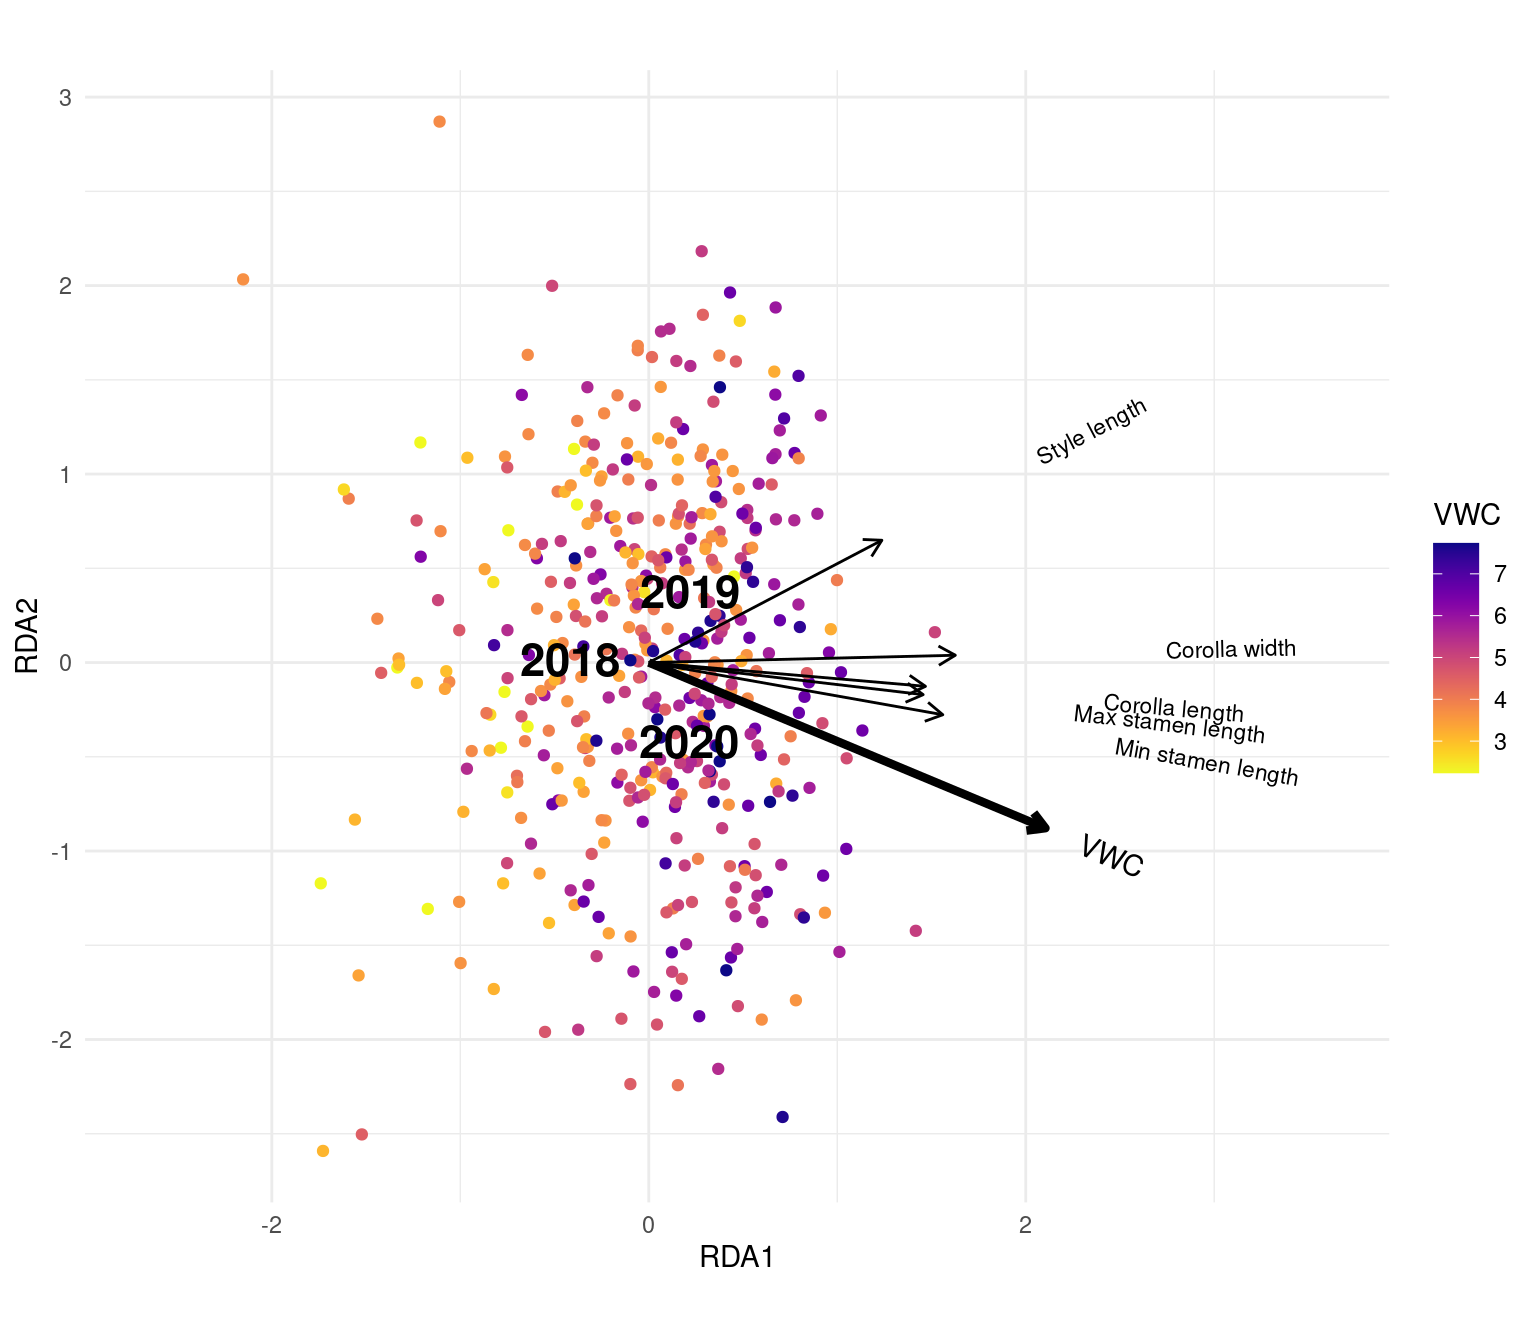
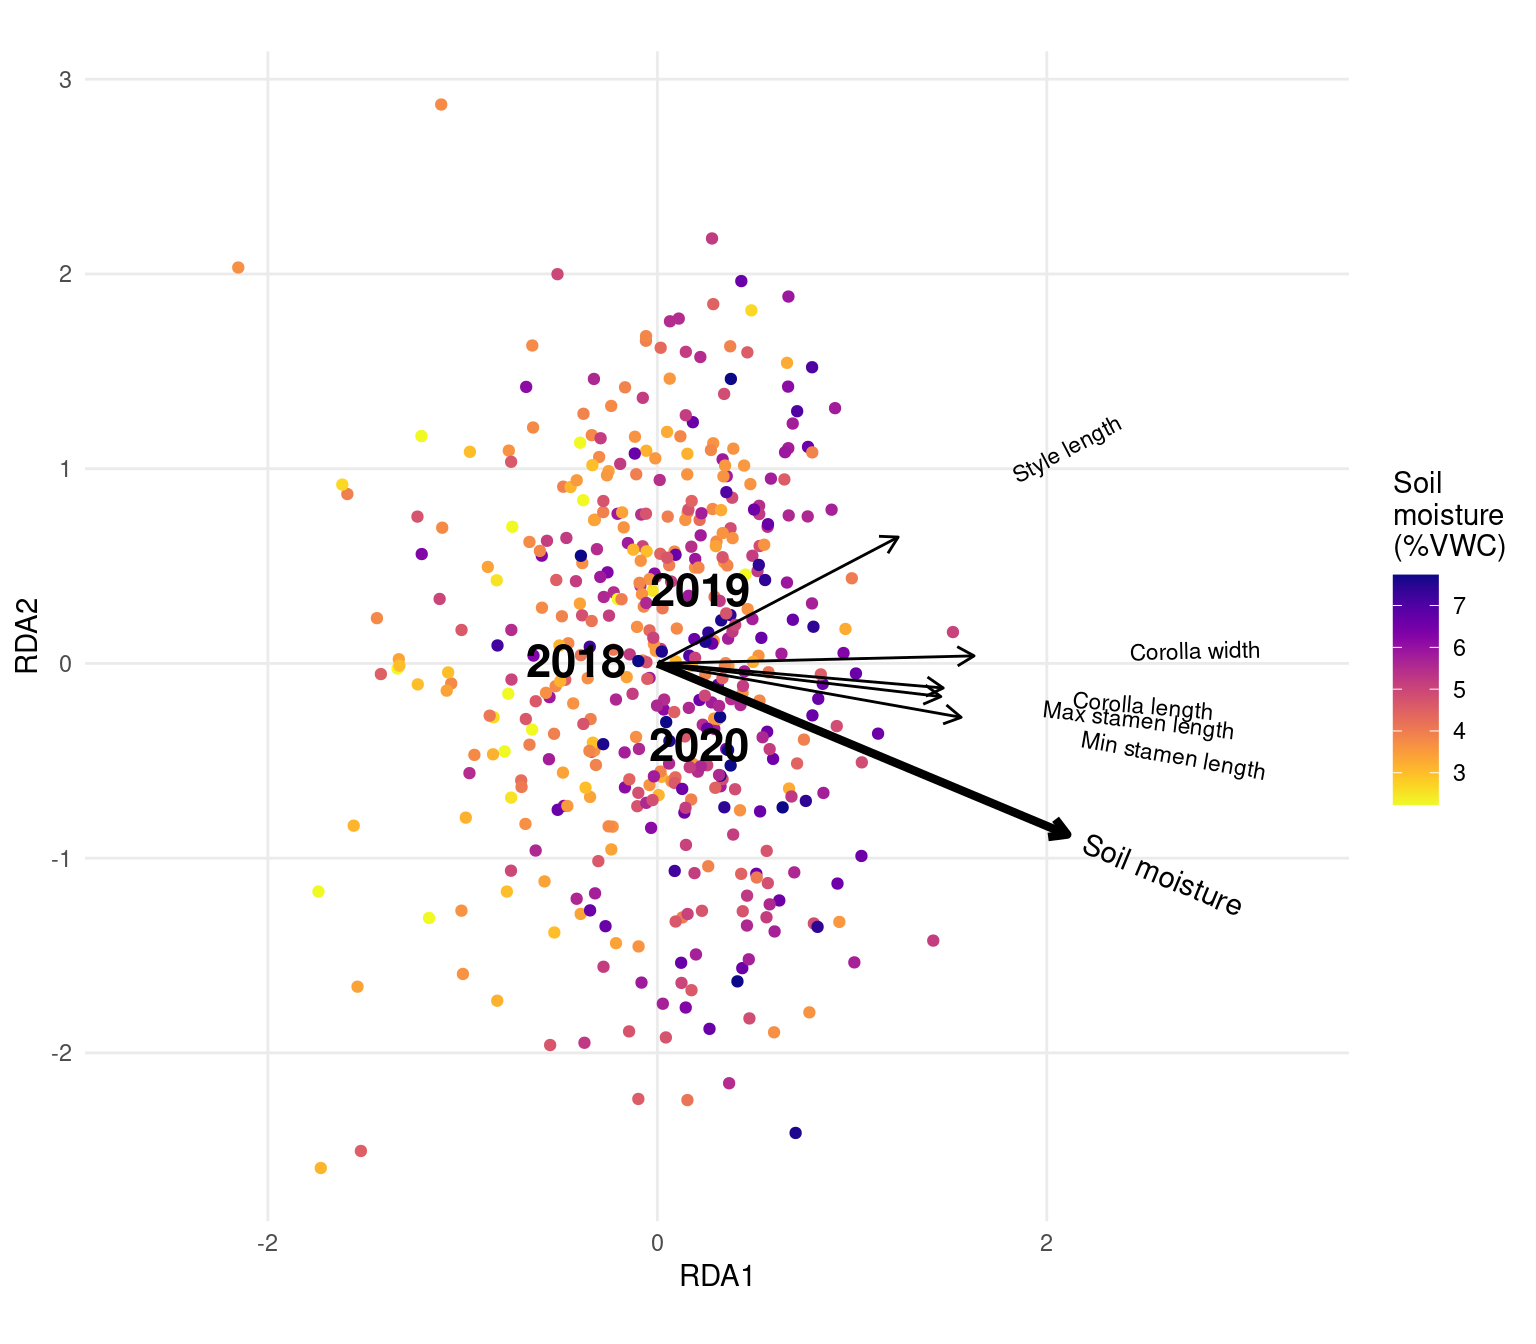
Tweaks to RDA figure

diff --git a/maxfield_JP_analyses.html b/maxfield_JP_analyses.html
@@ -11,7 +11,7 @@
 
 <meta name="author" content="John Powers" />
 
-<meta name="date" content="2021-04-15" />
+<meta name="date" content="2021-04-16" />
 
 <title>Maxfield Meadow Ipomopsis Experiment</title>
 
@@ -255,7 +255,7 @@ div.tocify {
 
 <h1 class="title toc-ignore">Maxfield Meadow Ipomopsis Experiment</h1>
 <h4 class="author"><a href="http://sites.uci.edu/powers/">John Powers</a></h4>
-<h4 class="date">2021-04-15</h4>
+<h4 class="date">2021-04-16</h4>
 
 </div>
 
@@ -5834,14 +5834,14 @@ ggplot(mapping=aes(x=RDA1, y=RDA2, label=Label)) +
   geom_point(data=mt.rda.df %&gt;% filter(Score==&quot;sites&quot;) %&gt;% bind_cols(mt.morph.plantyr), aes(color=VWC))+
   geom_segment(data=mt.rda.df %&gt;% filter(Label==&quot;VWC&quot;), aes(x=0,y=0,xend=RDA1*3, yend=RDA2*3), 
                arrow=arrow(length=unit(0.5, &quot;lines&quot;)), size=1.5)+
-  geom_text(   data=mt.rda.df %&gt;% filter(Label==&quot;VWC&quot;), aes(x=RDA1*3.5, y=RDA2*3.5, angle=atan(RDA2/RDA1)*180/pi))+
+  geom_text(   data=mt.rda.df %&gt;% filter(Label==&quot;VWC&quot;), aes(x=RDA1*3.7, y=RDA2*3.7, angle=atan(RDA2/RDA1)*180/pi), label=&quot;Soil moisture&quot;)+
   geom_segment(data=mt.rda.df %&gt;% filter(Score==&quot;species&quot;), aes(x=0,y=0,xend=RDA1, yend=RDA2), 
                arrow=arrow(length=unit(0.5, &quot;lines&quot;)))+
-  geom_text(   data=mt.rda.df %&gt;% filter(Score==&quot;species&quot;), aes(x=RDA1*1.9, y=RDA2*1.9, angle=atan(RDA2/RDA1)*180/pi,
+  geom_text(   data=mt.rda.df %&gt;% filter(Score==&quot;species&quot;), aes(x=RDA1*1.7, y=RDA2*1.7, angle=atan(RDA2/RDA1)*180/pi,
     label = c(traitnames, c(&quot;anther_max&quot;=&quot;Max stamen length&quot;, &quot;anther_min&quot;=&quot;Min stamen length&quot;))[as.character(Label)] %&gt;% str_remove(fixed(&quot; (mm)&quot;))), size=3)+
   geom_text(data=mt.rda.df %&gt;% filter(Score==&quot;centroids&quot;), aes(label=str_remove(Label, &quot;year&quot;)), fontface=2, size=6)+
-  scale_color_viridis(direction=-1, option=&quot;plasma&quot;) + coord_fixed() + 
-  scale_x_continuous(expand=expansion(mult=.16), breaks=c(-2,0,2))+   theme_minimal()</code></pre>
+  scale_color_viridis(&quot;Soil\nmoisture\n(%VWC)&quot;, direction=-1, option=&quot;plasma&quot;) + coord_fixed() + 
+  scale_x_continuous(expand=expansion(mult=.16), breaks=c(-2,0,2))+   theme_minimal() + theme(panel.grid.minor=element_blank())</code></pre>
 <p><img src="images/multresp_VWC-1.png" width="768" /></p>
 <pre class="r"><code>mt.morph.wm &lt;- mt[,c(&quot;corolla_length&quot;, &quot;corolla_width&quot;,&quot;style_length&quot;,&quot;anther_max&quot;,&quot;anther_min&quot;,&quot;year&quot;,&quot;precip_est_mm&quot;, &quot;sun_date&quot;)] %&gt;% drop_na(1:6) #and nectar (19,20) too
 mt.cap.wm &lt;- capscale(scale(mt.morph.wm[,-(6:8)]) ~ precip_est_mm * sun_date, data=mt.morph.wm)
